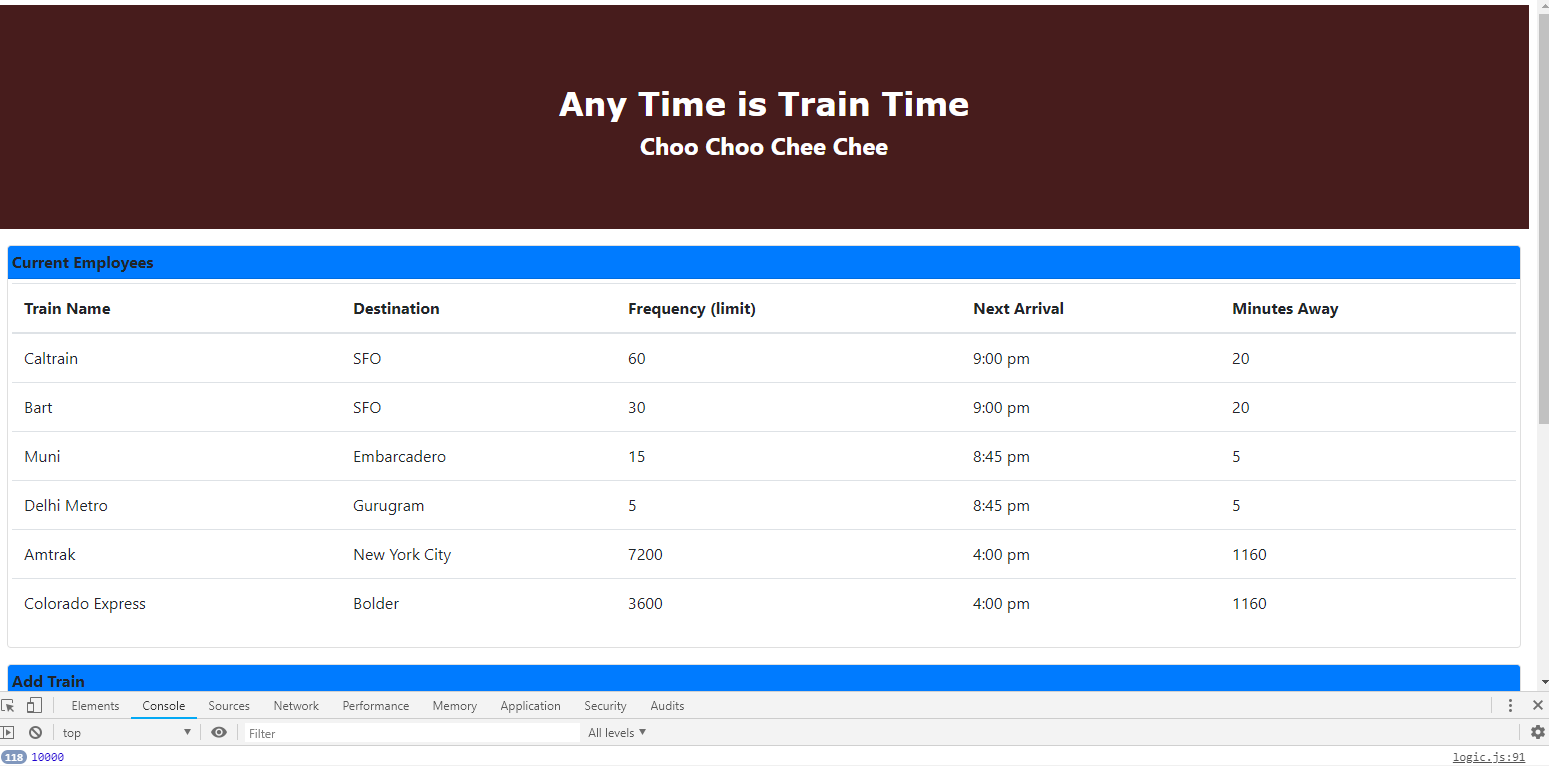
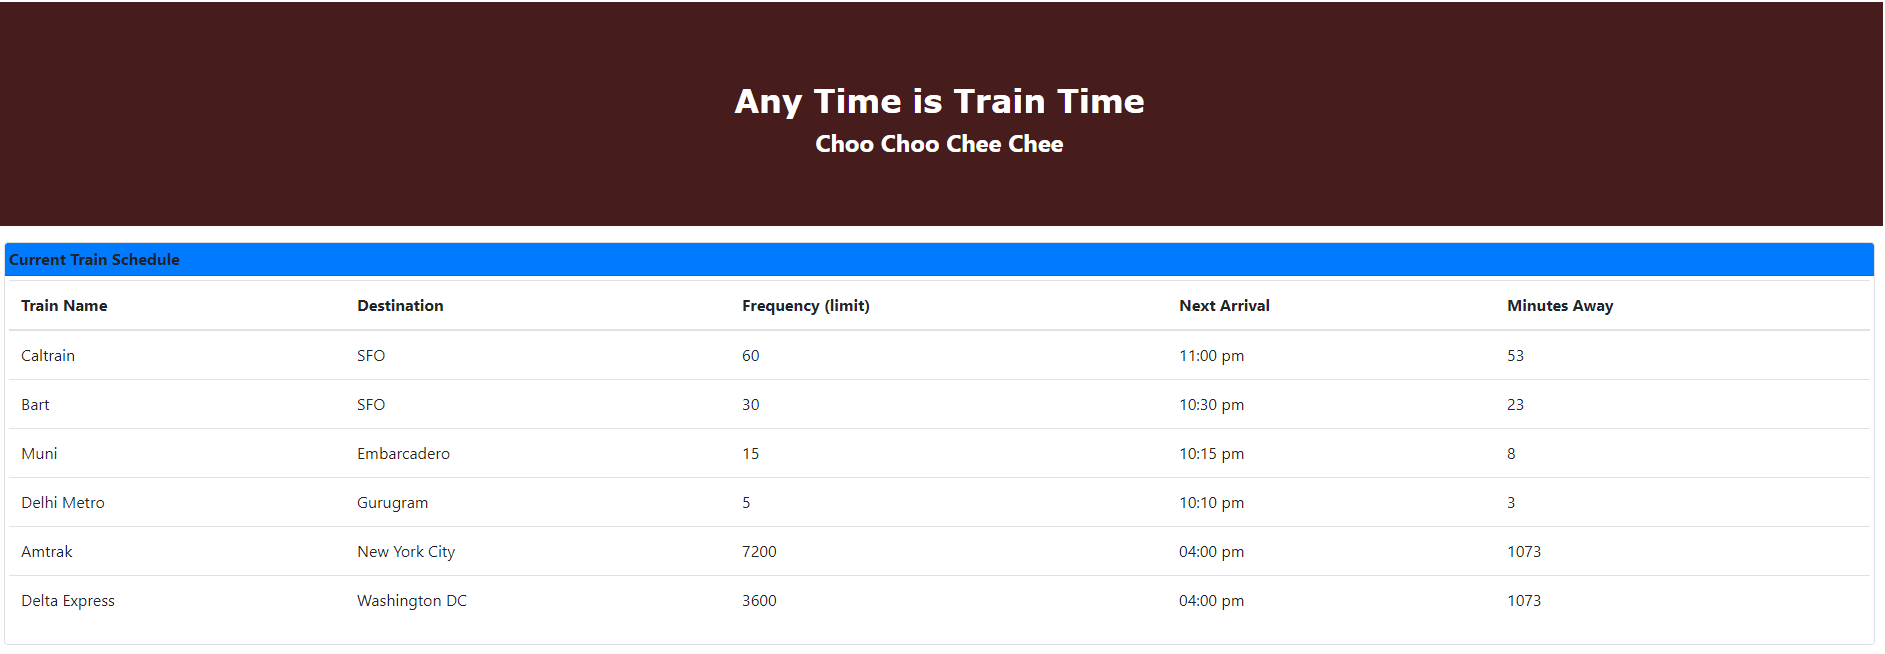
Update image 1 after heading fix

diff --git a/assets/javascript/logic.js b/assets/javascript/logic.js
@@ -78,7 +78,7 @@ $(function () {
             var Traindiff = moment(now, 'minutes').diff(parseInt(firstTrainTime), 'minutes');
             var timeRemaining = Traindiff % sv.frequency;
             var minutesRemaining = (sv.frequency - timeRemaining);
-            var nextTrain = moment().add(minutesRemaining, 'minutes').format('h:mm a');
+            var nextTrain = moment().add(minutesRemaining, 'minutes').format('hh:mm a');
             //  console.log(firstTrainTime, Traindiff, timeRemaining, minutesRemaining);
 
             //------------   Time to next Train above------------------//

diff --git a/index.html b/index.html
@@ -31,7 +31,7 @@
 
     <div class="card m-3">
         <div class="card-header bg-primary p-1">
-            <strong>Current Employees
+            <strong>Current Train Schedule
             </strong>
         </div>
         <div class="card-body p-1">
